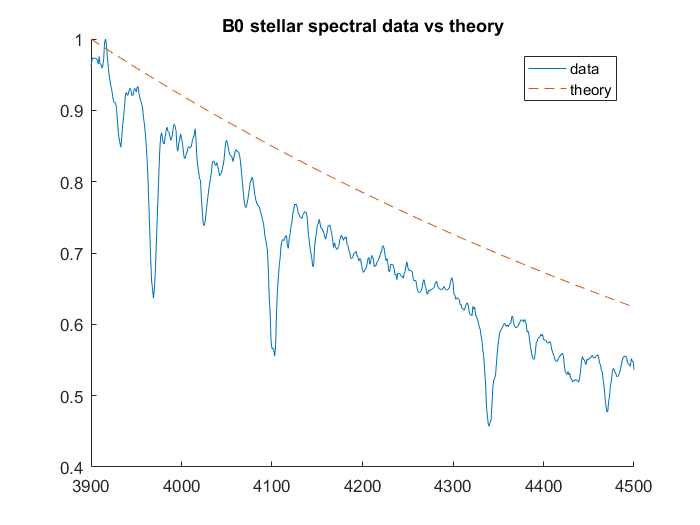
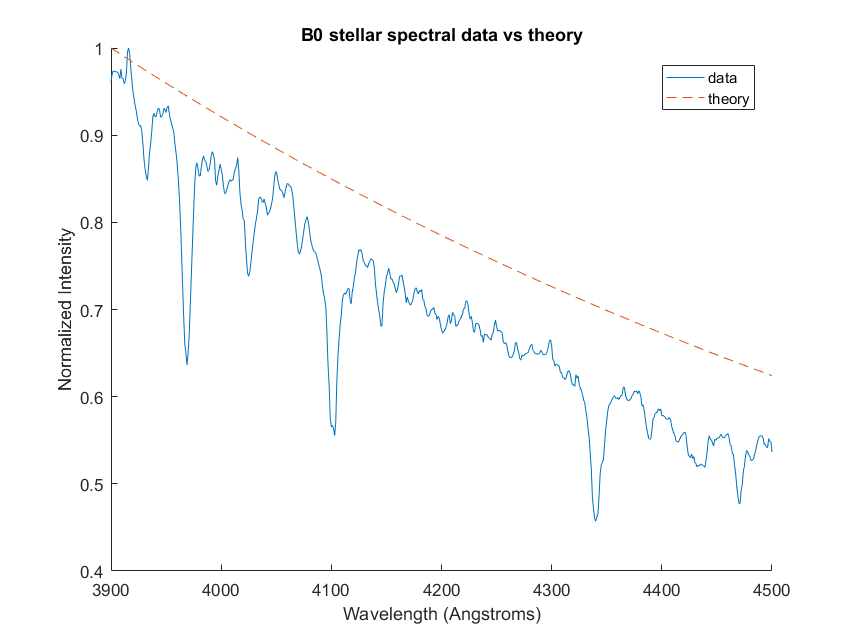
updated all plots and scripts for relative filenames and axes labels

diff --git a/lab3/part2/part2a.m b/lab3/part2/part2a.m
@@ -1,4 +1,4 @@
-unknown1_data = readtable('lab3\spectra\unknown1.txt', 'ReadVariableNames', true);
+unknown1_data = readtable('unknown1.txt', 'ReadVariableNames', true);
 
 % get standards
 spectral_types = {'A1', 'A5', 'B0', 'B6', 'F0', 'F5', 'G0', 'G6', 'K0', 'K5', 'M0', 'M5', 'O5'};
@@ -6,7 +6,7 @@ spectral_types = {'A1', 'A5', 'B0', 'B6', 'F0', 'F5', 'G0', 'G6', 'K0', 'K5', 'M
 spectral_standards = array2table(zeros(0,14), 'VariableNames', {'wavelength_A', spectral_types});
 
 for spectral_type in spectral_types:
-    spectral_standards(spectral_type) = readtable('lab3\spectra\' + spectral_type + '.txt', 'ReadVariableNames', true).normalized_wavelength;
+    spectral_standards(spectral_type) = readtable(spectral_type + '.txt', 'ReadVariableNames', true).normalized_wavelength;
 
 hold on
 
@@ -17,5 +17,7 @@ for spectral_type in spectral_types:
 
 legend(spectral_types);
 title('All spectral standards, compared to Unknown Spectra 1');
+xlabel('Wavelength (Angstroms)');
+ylabel('Normalized Intensity');
 
 hold off

diff --git a/lab3/part1/part1b.m b/lab3/part1/part1b.m
@@ -1,4 +1,4 @@
-B0_data = readtable('lab3\spectra\b0.txt', 'ReadVariableNames', true);
+B0_data = readtable('b0.txt', 'ReadVariableNames', true);
 
 % B0 main sequence is 29200K
 B0_theory = blackbody_intensity(B0_data.wavelength_A .* 1e-10, 29200);
@@ -11,5 +11,7 @@ plot(B0_data.wavelength_A, B0_normalized_theory, '--');
 
 legend('data', 'theory');
 title('B0 stellar spectral data vs theory');
+xlabel('Wavelength (Angstroms)');
+ylabel('Normalized Intensity');
 
 hold off

diff --git a/lab3/part2/unknown1_residuals.m b/lab3/part2/unknown1_residuals.m
@@ -12,5 +12,7 @@ plot(unknown_spectra.wavelength_A, residuals.a1, '--');
 
 legend('o5', 'a1');
 title('Unknown Spectra 1 residuals compared to O5 and A1 Spectra');
+xlabel('Wavelength (Angstroms)');
+ylabel('Normalized Intensity');
 
 hold off

diff --git a/lab3/part2/plot_unknown1.m b/lab3/part2/plot_unknown1.m
@@ -10,5 +10,7 @@ plot(known_spectra.wavelength_A, known_spectra.a1, '-');
 
 legend('unknown1', 'o5', 'a1');
 title('Unknown Spectra 1 vs O5 and A1 Spectra');
+xlabel('Wavelength (Angstroms)');
+ylabel('Normalized Intensity');
 
 hold off

diff --git a/lab3/part1/part1a.m b/lab3/part1/part1a.m
@@ -25,5 +25,7 @@ plot(wavelengths, M0_theory, '.-');
 
 legend('A0', 'G2', 'M0');
 title('Plancks Law of A0, G2, and M0 stellar spectra over 200 wavelengths');
+xlabel('Wavelength (meters)');
+ylabel('Normalized Intensity');
 
 hold off
